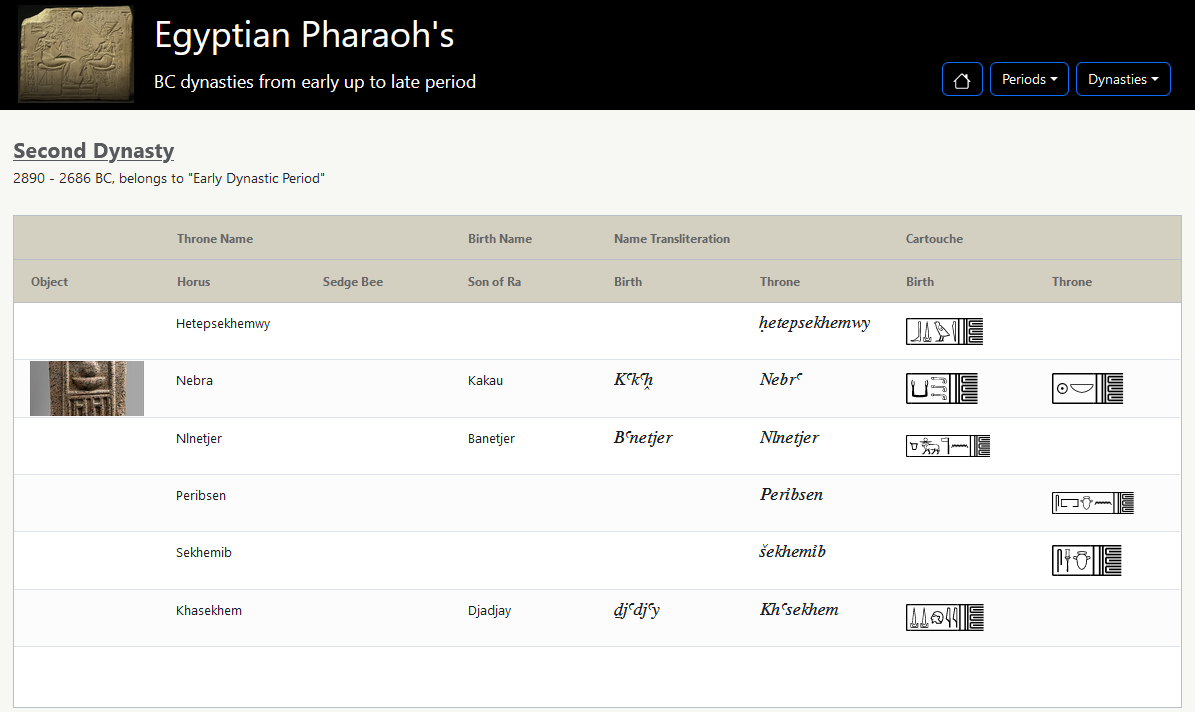
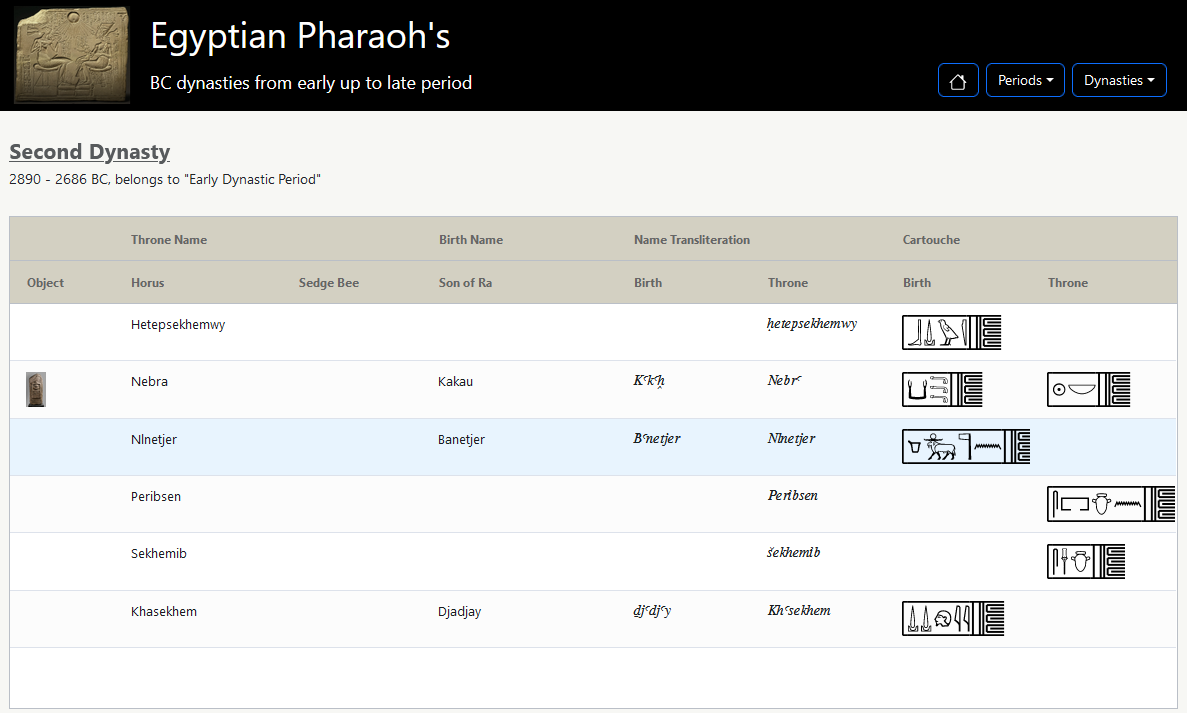
Fix: change sec dyn screenshot after svg scaling

diff --git a/Egypt_Pharaoh_Hieroglyphs/src/pages/layouts.py b/Egypt_Pharaoh_Hieroglyphs/src/pages/layouts.py
@@ -626,7 +626,7 @@ def get_col_defs(throne_class):
                     "field": "JSesh_throne_praenomen_cartouche",
                     "headerName": "Throne",
                     "cellRenderer": "ImgThumbnail",
-                    "width": 48,
+                    "width": 52,
                     "height": 20,
                     "filter": False,
                 },
